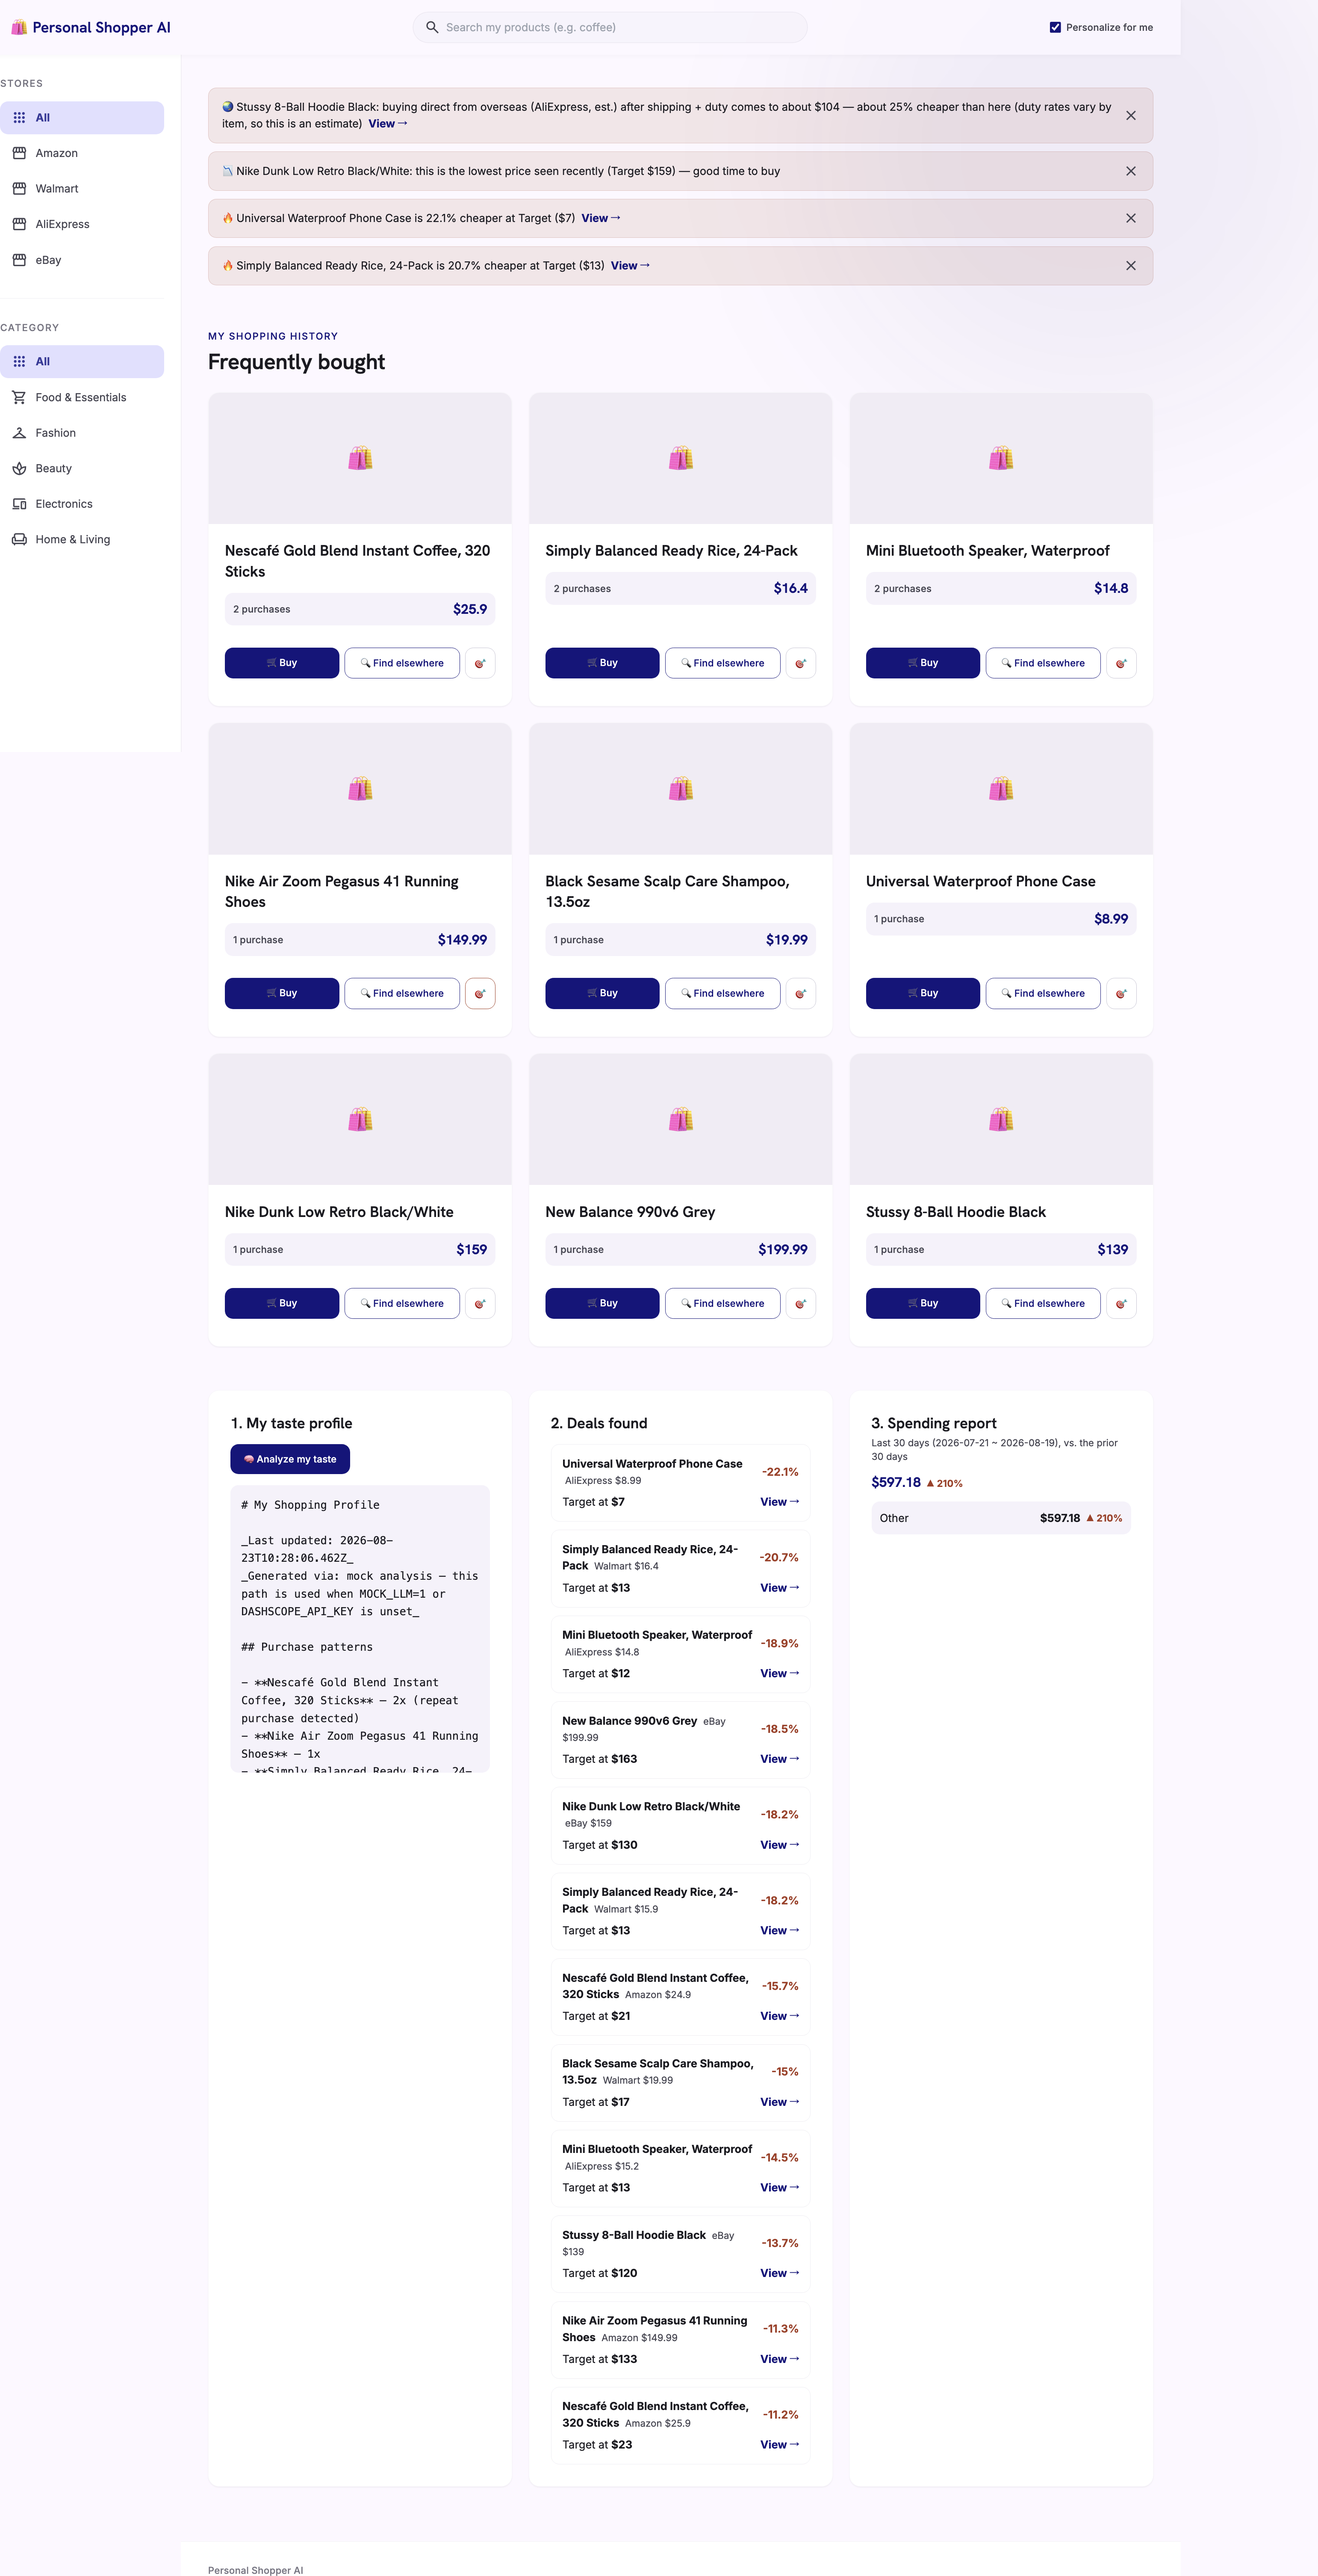
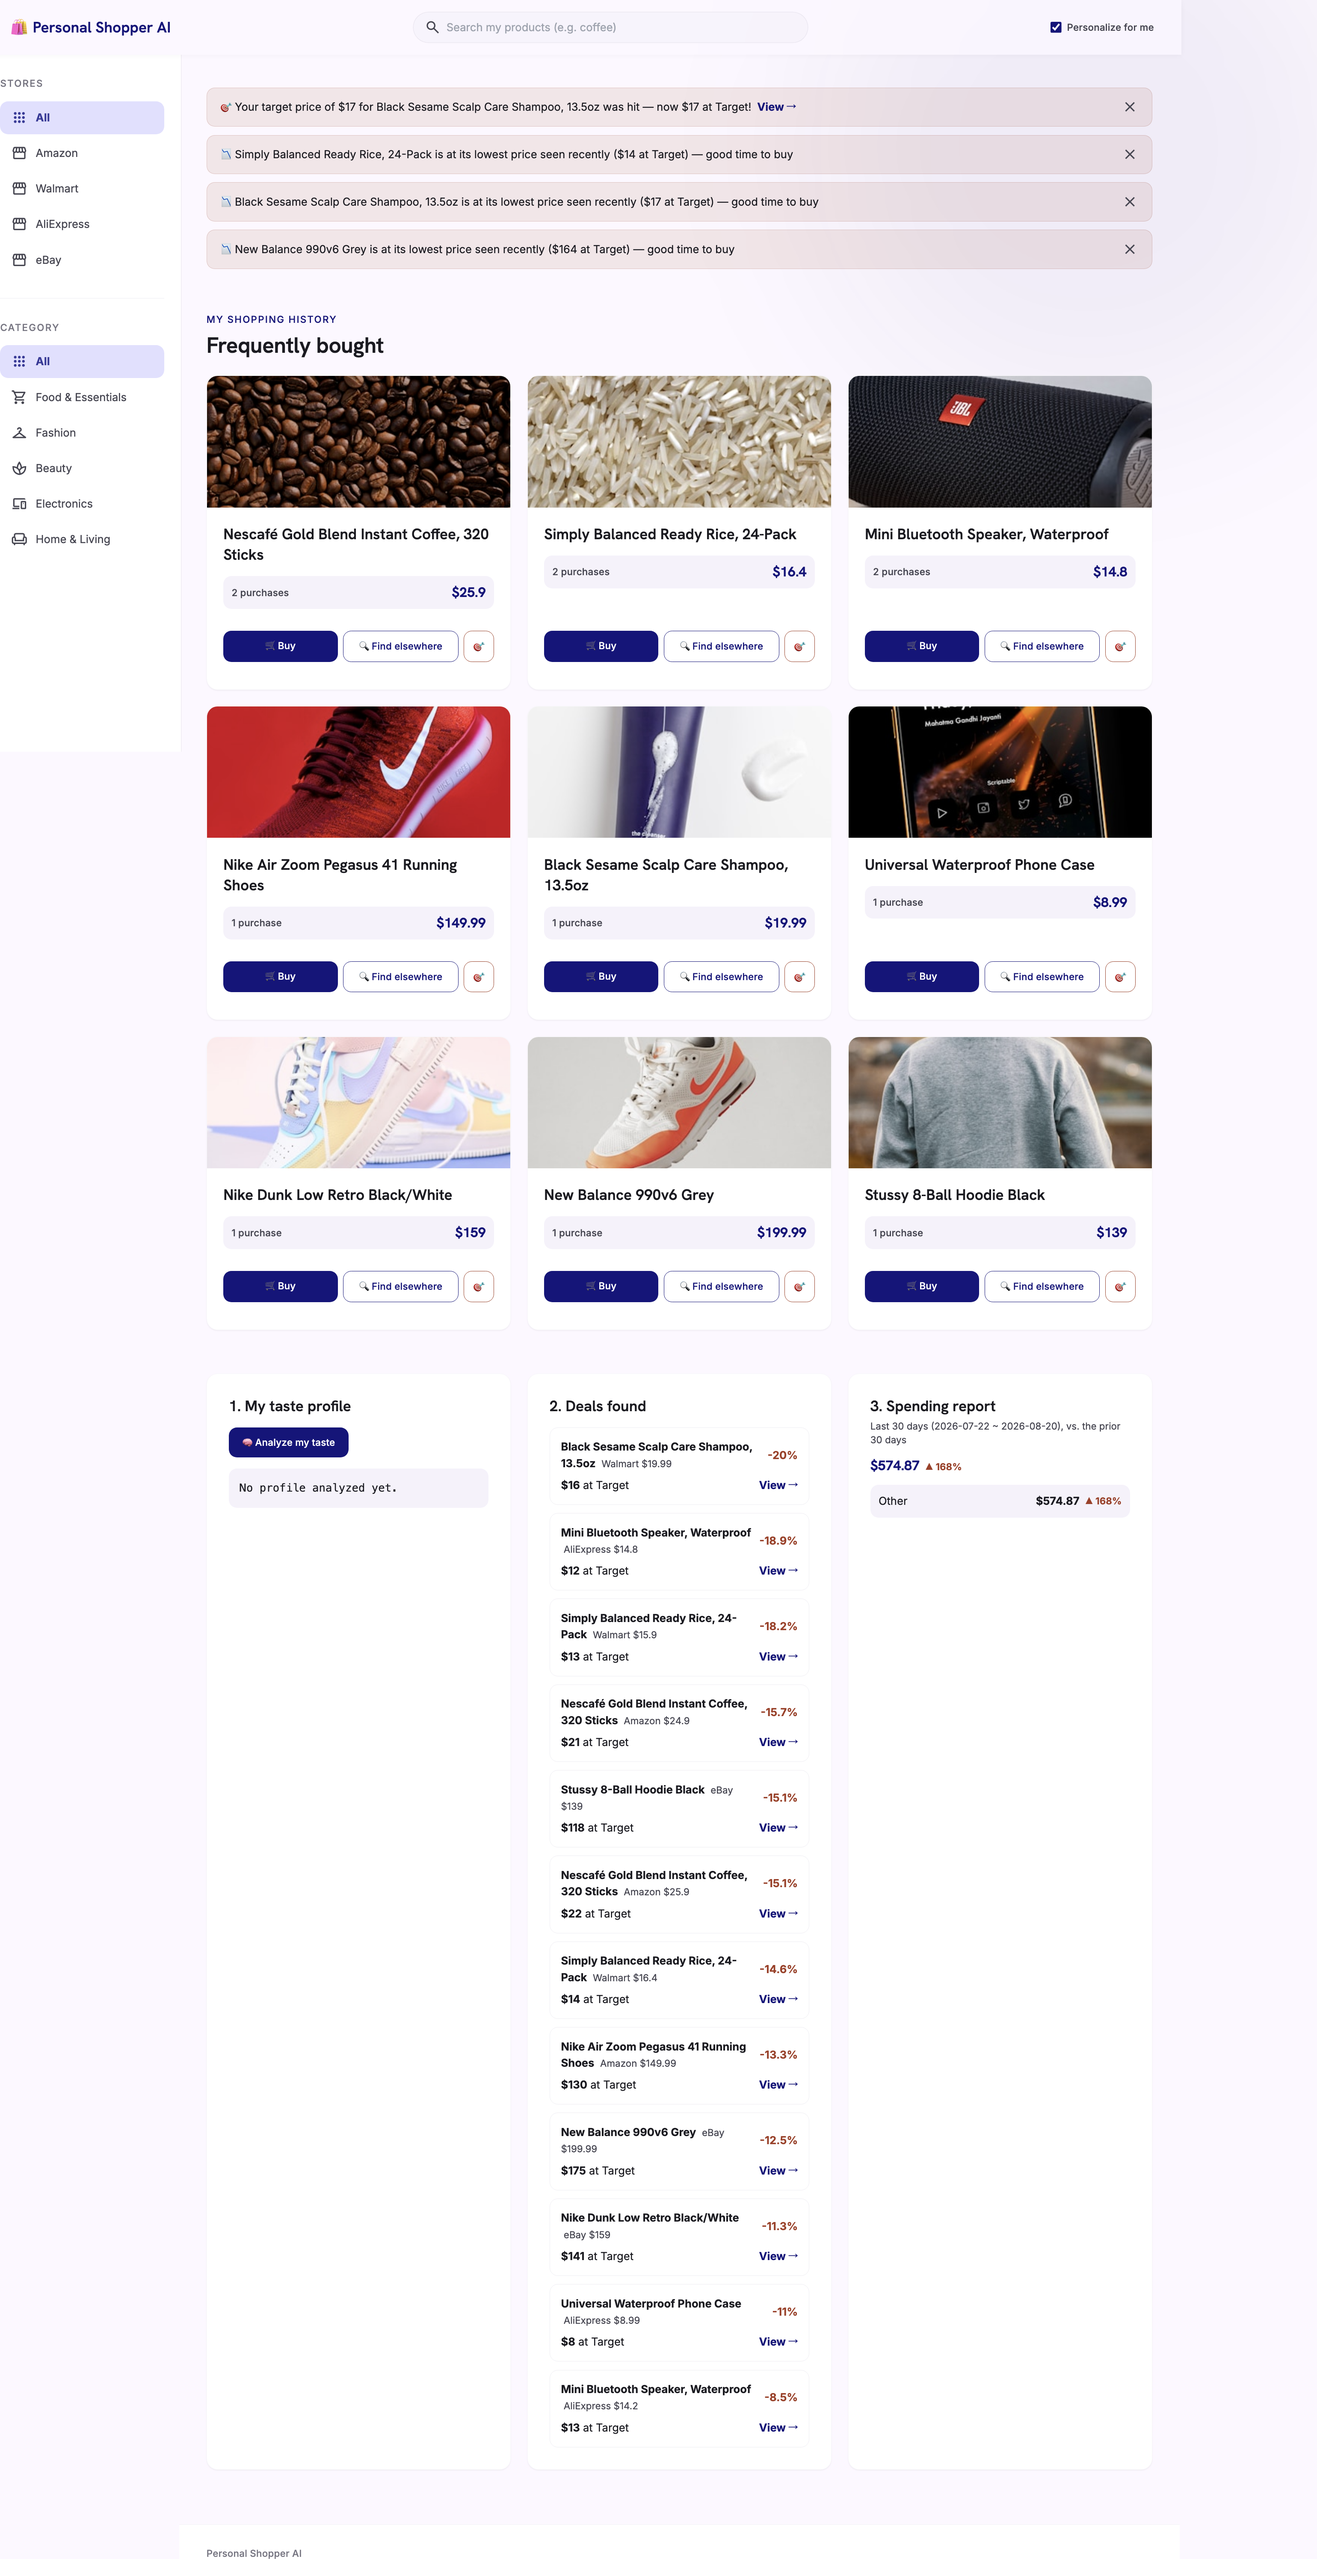
docs: give English demo screenshot real product photos
Product cards previously fell back to a 🛍 placeholder emoji since the
English demo's mock products had no image_url. Rebuilt the demo dataset
with real (Unsplash-hotlinked) product photos per item so the screenshot
matches what a populated app actually looks like.

Also add a personal-anecdote hook line to the problem section of all
four READMEs.

diff --git a/README_KO.md b/README_KO.md
@@ -14,6 +14,8 @@
 
 ## 문제 — 쇼핑은 아직 너무 많은 탭과 기억을 요구합니다
 
+> 사람들은 대부분 자기가 익숙한 쇼핑몰에서만 계속 산다. 다른 데가 더 싼지 확인할 생각조차 안 하고, 결국 늘 비싸게 산다. 나도 그랬다 — 이 습관 하나만 고쳤을 뿐인데 지출이 최소 15%, 많게는 50%까지 줄었다.
+
 온라인에서 더 싸게 사려면 쿠팡·네이버쇼핑·크림·해외몰을 하나씩 오가며 가격을 비교해야 합니다. 내가 무엇을 자주 사고, 어느 가격대에 민감한지, 재구매할 시점이 언제인지도 결국 사람이 기억해야 합니다.
 
 백화점에는 내 취향을 알고 대신 찾아주는 퍼스널 쇼퍼가 있지만, 개인의 온라인 쇼핑에는 이런 서비스가 거의 없습니다. 여러 쇼핑몰에 흩어진 내 구매 이력과 공개 상품 정보를 한 화면에서 연결해 주는 쇼핑 도우미가 필요합니다.

diff --git a/README_JA.md b/README_JA.md
@@ -6,6 +6,8 @@
 
 ## 課題
 
+> 多くの人は、使い慣れたショップでしか買い物をせず、他がもっと安いか確かめもしないまま、結局いつも高く買っている。私自身もそうだった——この習慣をひとつ直しただけで、支出を最低15%、多いときで50%も減らせた。
+
 より安い商品を見つけるには、楽天市場、Amazon、ZOZOTOWNなど複数のショップを自分で行き来しなければなりません。よく買う商品、好みのブランド、価格への敏感さも自分で覚えておく必要があります。デパートには専属のパーソナルショッパーがいますが、個人がオンラインでその体験を得ることはほとんどありません。
 
 ## 解決策

diff --git a/README.md b/README.md
@@ -10,6 +10,8 @@
 
 ## The problem
 
+> Most people only ever buy from the store they're already used to — never checking if it's cheaper elsewhere — so they end up overpaying by default. That was me too. Fixing that one habit alone cut my own spending by 15–50%.
+
 Finding the best deal still means jumping between countless online stores and global marketplaces. Shoppers must remember their own repeat purchases, preferred brands, and price sensitivity while manually comparing tabs.
 
 Department stores offer personal shoppers; individuals rarely get that experience online.

diff --git a/README_ZH.md b/README_ZH.md
@@ -6,6 +6,8 @@
 
 ## 问题
 
+> 大多数人只会在自己习惯的商城里买东西,从来不会去想别处是不是更便宜,结果总是买贵了。我自己也是这样——光是改掉这一个习惯,就让我的支出减少了15%到50%。
+
 要找到更便宜的商品，人们必须在淘宝、京东、拼多多等多个购物网站之间反复切换，并且自己记住常购商品、品牌偏好和价格敏感度。百货商店有私人购物顾问，但个人在线购物通常没有。
 
 ## 解决方案
